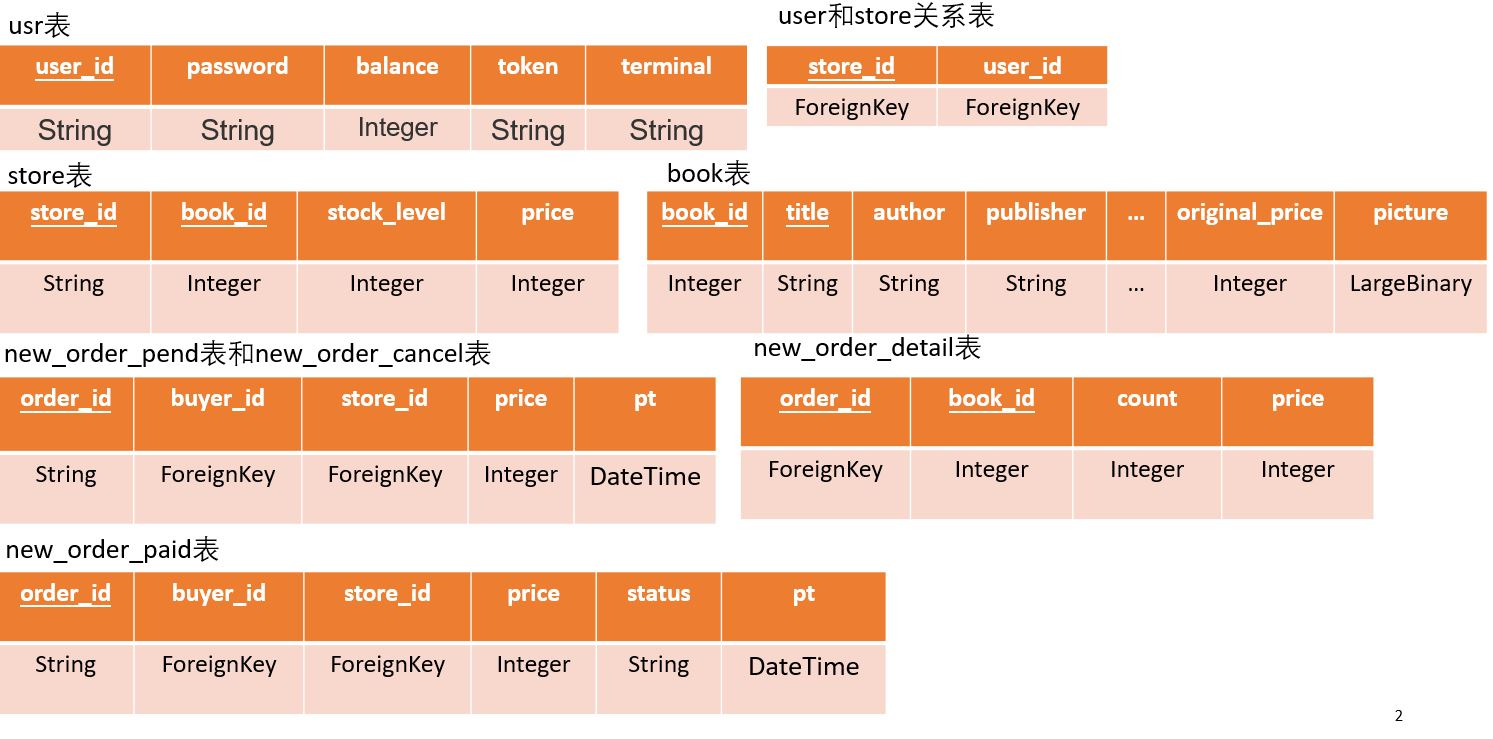
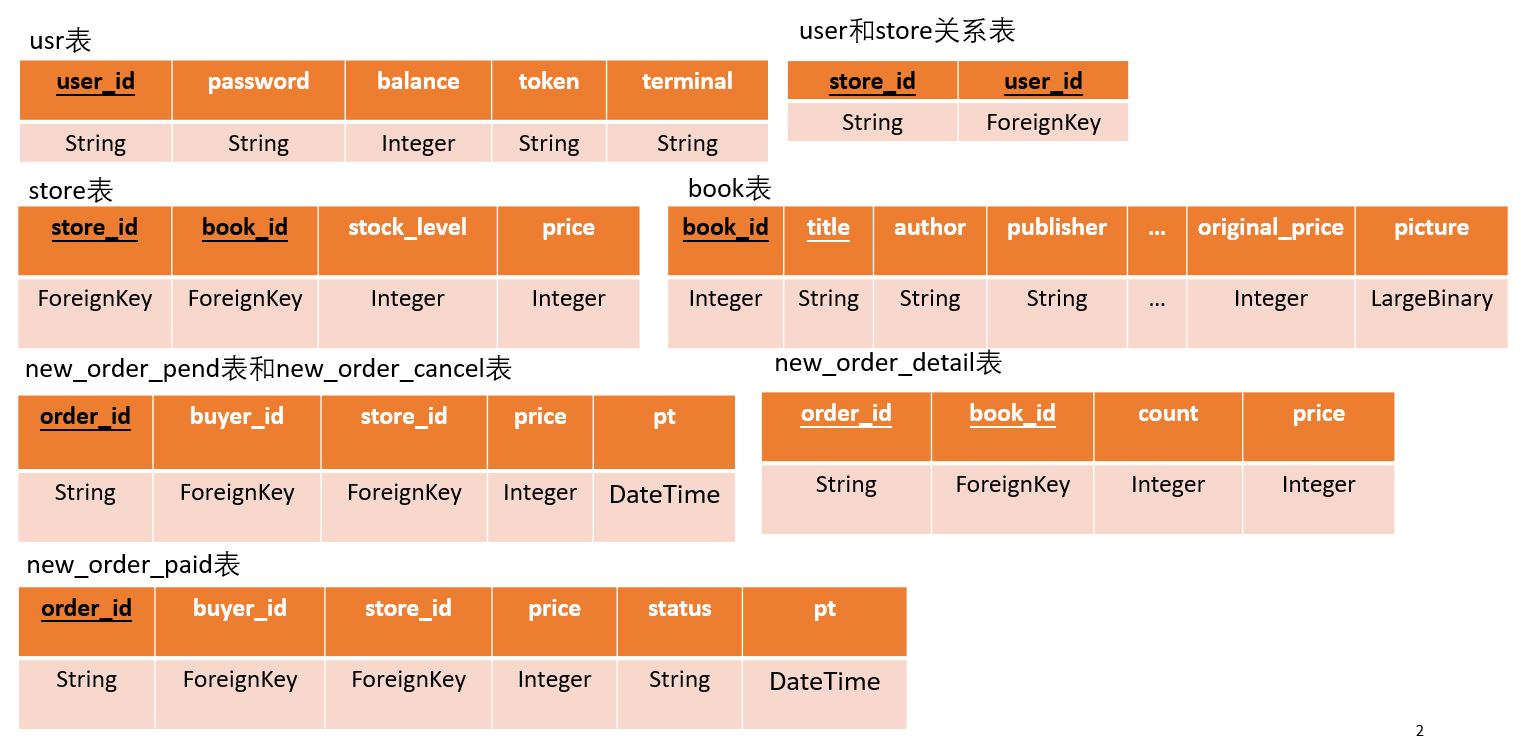
建立索引

Changed region(s): [[0.0, 0.0, 1.0, 0.9648]]

diff --git a/initialize_database/initialize_database.py b/initialize_database/initialize_database.py
@@ -6,8 +6,8 @@ from sqlalchemy.orm import sessionmaker
 import psycopg2
 from datetime import datetime,time
 # 连接数据库legend 记得修改这个！！！
-engine = create_engine('postgresql://postgres:990814@localhost/bookstore')
-# engine = create_engine('postgresql://postgres:990814@[2001:da8:8005:4056:81e9:7f6c:6d05:fe47]:5432/Bookstore')
+# engine = create_engine('postgresql://postgres:990814@localhost/bookstore')
+engine = create_engine('postgresql://postgres:990814@[2001:da8:8005:4056:81e9:7f6c:6d05:fe47]:5432/Bookstore')
 
 Base = declarative_base()
 
@@ -25,8 +25,8 @@ class User(Base):
 # 商店表（含书本信息）
 class Store(Base):
     __tablename__ = 'store'
-    store_id = Column(String(128), ForeignKey('user_store.store_id'), nullable=False)
-    book_id = Column(Integer, ForeignKey('book.book_id'), nullable=False)
+    store_id = Column(String(128), ForeignKey('user_store.store_id'), nullable=False, index = True)
+    book_id = Column(Integer, ForeignKey('book.book_id'), nullable=False, index = True)
     stock_level = Column(Integer, nullable=False)
     price = Column(Integer, nullable=False) # 售价
     __table_args__ = (
@@ -58,8 +58,8 @@ class Book(Base):
 # 用户商店关系表
 class User_store(Base):
     __tablename__ = 'user_store'
-    user_id = Column(String(128), ForeignKey('usr.user_id'), nullable=False)
-    store_id = Column(String(128), nullable=False, unique=True) # 这里的store不可能重复
+    user_id = Column(String(128), ForeignKey('usr.user_id'), nullable=False, index = True)
+    store_id = Column(String(128), nullable=False, unique=True, index = True) # 这里的store不可能重复
     __table_args__ = (
         PrimaryKeyConstraint('user_id', 'store_id'),
         {},
@@ -133,7 +133,7 @@ def add_info():
             terminal='Chrome')
     session.add_all([A, B])
     session.commit()
-    
+
     A_Store1 = User_store(user_id = '王掌柜',
                         store_id = '王掌柜的书店')
     A_Store2 = User_store(user_id = '王掌柜',
